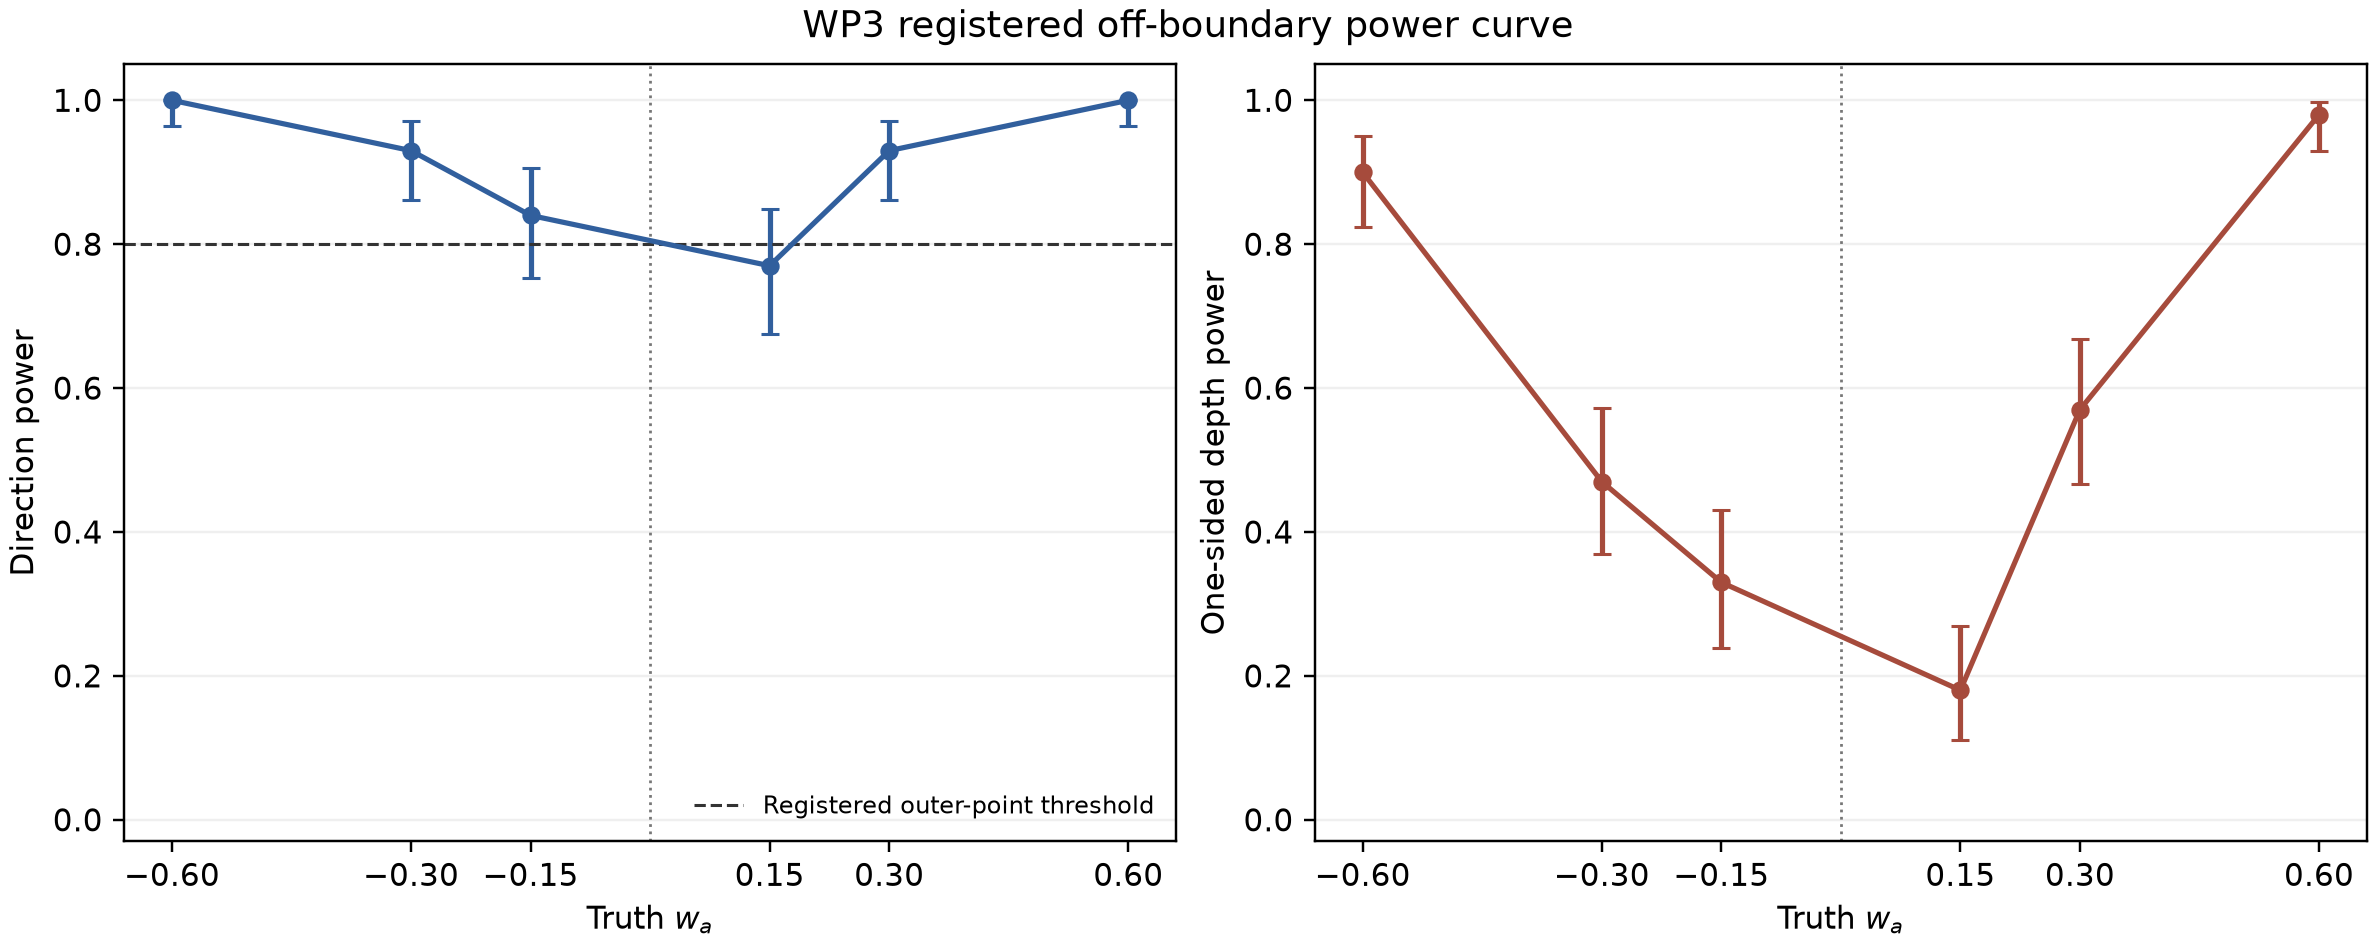
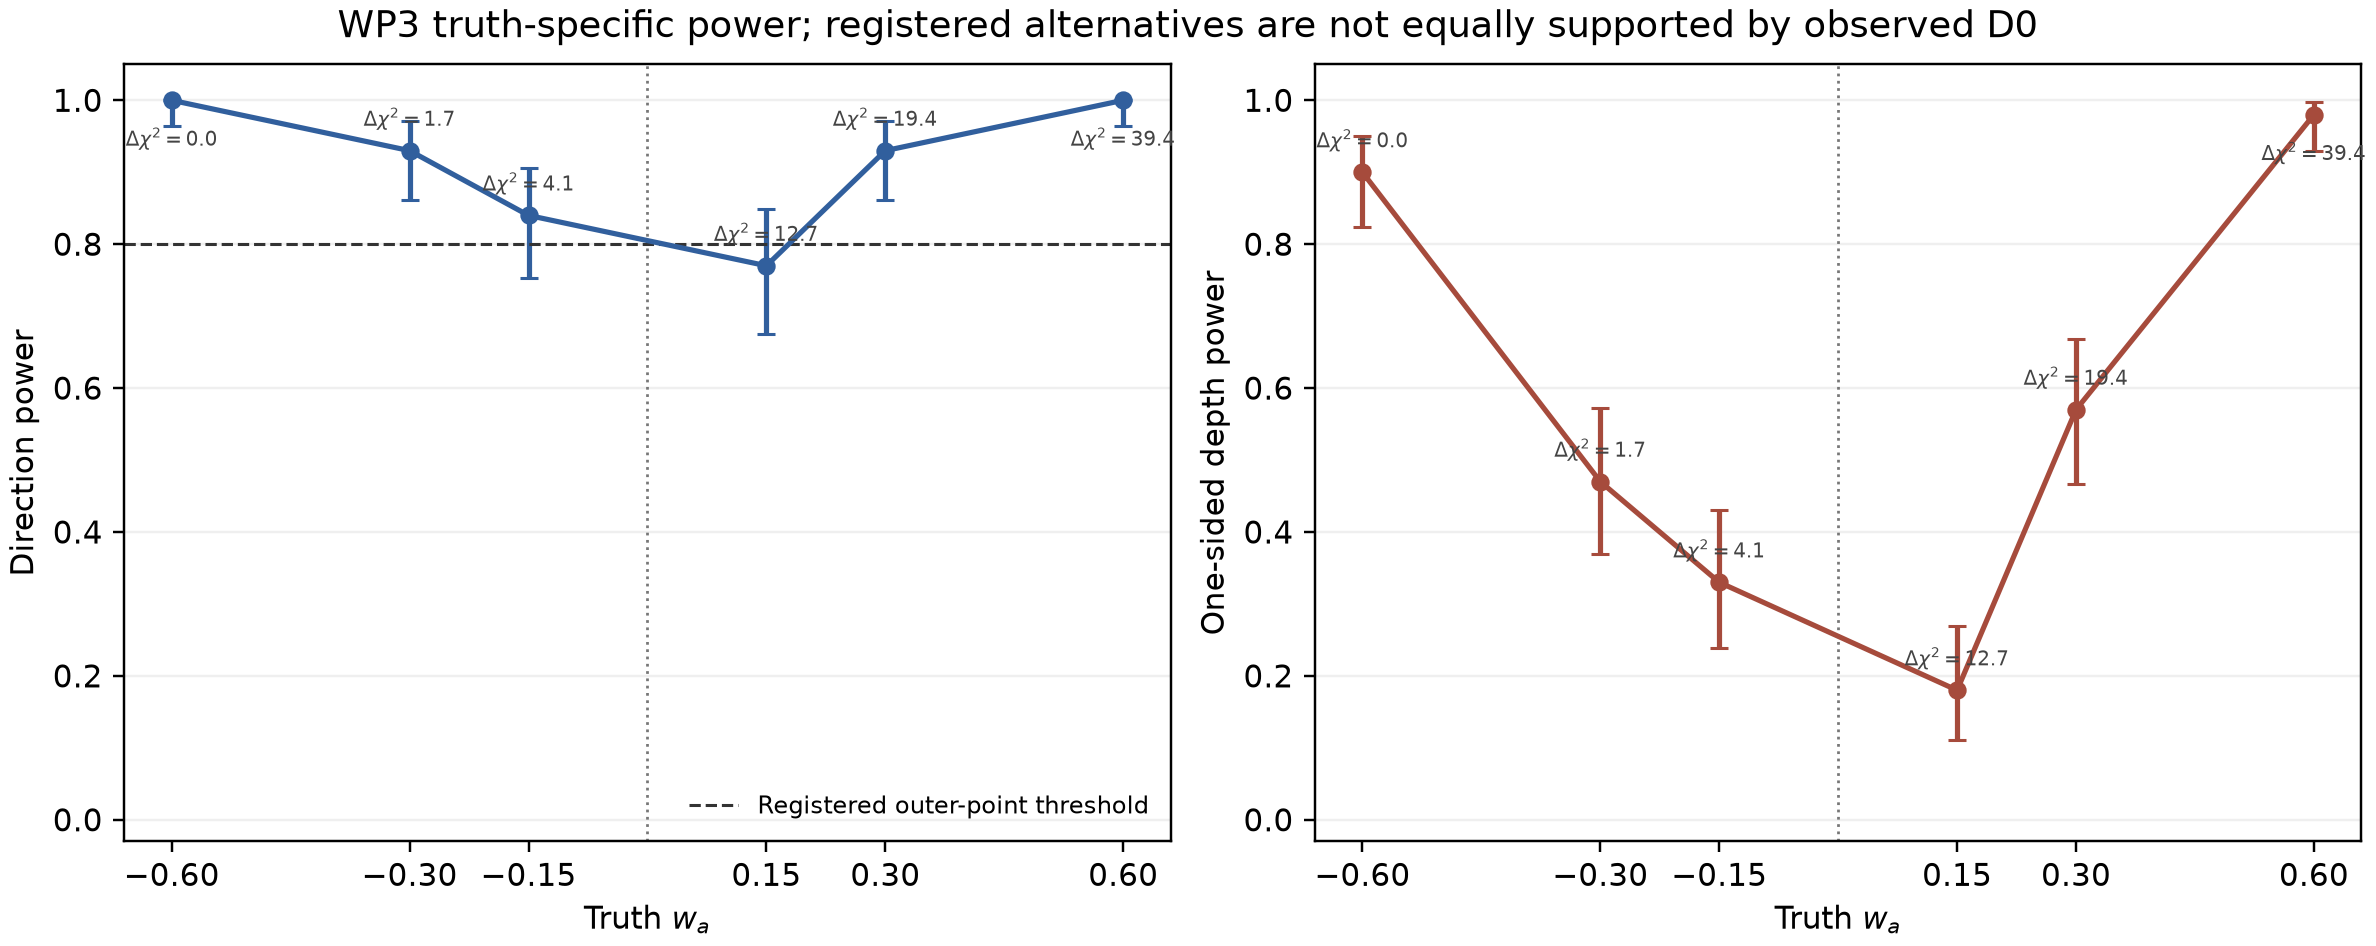
analysis: scope WP3 power claims and add profile fit

diff --git a/pipeline/report_wp3_power.py b/pipeline/report_wp3_power.py
@@ -21,9 +21,28 @@ def _interval_text(interval: list[float]) -> str:
     return f"[{interval[0]:.3f}, {interval[1]:.3f}]"
 
 
-def build_report(audit: dict) -> dict:
+def load_truth_profiles(root: Path = WP3_ROOT) -> dict[str, dict]:
+    profiles = {}
+    for truth_id in ORDER:
+        path = root / "truths" / truth_id / "truth.json"
+        truth = json.loads(path.read_text(encoding="utf-8"))
+        profiles[truth_id] = {
+            "profile_chi2": float(truth["fit"]["chi2"]),
+            "source": str(path.relative_to(ROOT)),
+        }
+    reference = min(row["profile_chi2"] for row in profiles.values())
+    for row in profiles.values():
+        row["delta_chi2_from_best_registered_truth"] = (
+            row["profile_chi2"] - reference
+        )
+    return profiles
+
+
+def build_report(audit: dict, truth_profiles: dict[str, dict] | None = None) -> dict:
     if audit.get("status") != "PASS":
         raise ValueError("WP3 completion audit has not passed")
+    if truth_profiles is None:
+        truth_profiles = load_truth_profiles()
     registered = audit["registered_power_endpoints"]
     points = registered["truth_points"]
     rows = []
@@ -33,6 +52,11 @@ def build_report(audit: dict) -> dict:
             {
                 "truth_id": truth_id,
                 "wa": point["wa"],
+                "profile_chi2": truth_profiles[truth_id]["profile_chi2"],
+                "delta_chi2_from_best_registered_truth": truth_profiles[
+                    truth_id
+                ]["delta_chi2_from_best_registered_truth"],
+                "truth_fit_source": truth_profiles[truth_id]["source"],
                 "correct_direction": point["correct_direction"],
                 "direction_power": point["direction_power"]["rate"],
                 "direction_power_exact95": point["direction_power"][
@@ -54,22 +78,26 @@ def build_report(audit: dict) -> dict:
             }
         )
     return {
-        "schema_version": "wp3-power-report-v1",
+        "schema_version": "wp3-power-report-v2",
         "source_audit": str(AUDIT.relative_to(ROOT)),
         "completion_status": audit["status"],
         "outer_direction_power_threshold": registered[
             "outer_direction_power_threshold"
         ],
         "outer_points_pass": registered["outer_points_pass"],
-        "classifier_demonstrably_powerful": registered[
-            "classifier_demonstrably_powerful"
-        ],
+        "positive_claim_scope": registered["positive_claim_scope"],
         "monotonicity_status": registered["monotonicity_diagnostic"]["status"],
+        "monotonicity_evidential_role": registered[
+            "monotonicity_diagnostic"
+        ]["evidential_role"],
         "rows": rows,
         "interpretation_guardrail": (
-            "WP3 establishes calibration power under the six declared local "
-            "alternatives. It does not by itself establish that the observed "
-            "universe occupies any one off-boundary truth."
+            "Power is truth-specific. The six declared alternatives have "
+            "different profile chi-square penalties against the observed D0 "
+            "data and are not a symmetric sequence of equally supported "
+            "effect sizes. WP3 establishes strong direction power under the "
+            "two registered outer-point alternatives; it does not establish "
+            "that the observed universe occupies any one off-boundary truth."
         ),
     }
 
@@ -78,6 +106,8 @@ def write_csv(report: dict, path: Path) -> None:
     fields = (
         "truth_id",
         "wa",
+        "profile_chi2",
+        "delta_chi2_from_best_registered_truth",
         "correct_direction",
         "direction_power",
         "direction_low95",
@@ -101,6 +131,10 @@ def write_csv(report: dict, path: Path) -> None:
                 {
                     "truth_id": row["truth_id"],
                     "wa": row["wa"],
+                    "profile_chi2": row["profile_chi2"],
+                    "delta_chi2_from_best_registered_truth": row[
+                        "delta_chi2_from_best_registered_truth"
+                    ],
                     "correct_direction": row["correct_direction"],
                     "direction_power": row["direction_power"],
                     "direction_low95": row["direction_power_exact95"][0],
@@ -123,16 +157,19 @@ def write_markdown(report: dict, path: Path) -> None:
     lines = [
         "# WP3 off-boundary power report",
         "",
-        "| Truth | wa | Correct side | Direction power (exact 95%) | Depth power (exact 95%) | False sign (exact 95%) | Correct mass median [central 68%] |",
-        "|---|---:|---|---:|---:|---:|---:|",
+        "| Truth | wa | profile chi2 | delta chi2 | Correct side | Direction power (exact 95%) | Depth power (exact 95%) | False sign (exact 95%) | Correct mass median [central 68%] |",
+        "|---|---:|---:|---:|---|---:|---:|---:|---:|",
     ]
     for row in report["rows"]:
         lines.append(
-            "| {truth_id} | {wa:+.2f} | {side} | {direction:.2f} {direction_ci} "
+            "| {truth_id} | {wa:+.2f} | {chi2:.2f} | {delta_chi2:.2f} "
+            "| {side} | {direction:.2f} {direction_ci} "
             "| {depth:.2f} {depth_ci} | {false:.2f} {false_ci} | "
             "{median:.3f} [{low68:.3f}, {high68:.3f}] |".format(
                 truth_id=row["truth_id"],
                 wa=row["wa"],
+                chi2=row["profile_chi2"],
+                delta_chi2=row["delta_chi2_from_best_registered_truth"],
                 side=row["correct_direction"],
                 direction=row["direction_power"],
                 direction_ci=_interval_text(row["direction_power_exact95"]),
@@ -150,9 +187,10 @@ def write_markdown(report: dict, path: Path) -> None:
         [
             "",
             f"- Outer-point direction-power gate (`>=0.80`): **{status}**.",
-            f"- Monotonicity diagnostic: **{report['monotonicity_status']}**.",
-            f"- Classifier demonstrably powerful under the registered rule: "
-            f"**{str(report['classifier_demonstrably_powerful']).upper()}**.",
+            f"- Positive claim: {report['positive_claim_scope']}.",
+            f"- Coarse monotonicity diagnostic: "
+            f"**{report['monotonicity_status']}**; "
+            f"{report['monotonicity_evidential_role']}.",
             "",
             report["interpretation_guardrail"],
             "",
@@ -195,6 +233,16 @@ def write_figure(report: dict, path: Path) -> None:
             capsize=3,
             color=color,
         )
+        for x_value, y_value, row in zip(x, y, rows):
+            ax.annotate(
+                rf"$\Delta\chi^2={row['delta_chi2_from_best_registered_truth']:.1f}$",
+                (x_value, y_value),
+                xytext=(0, -15 if y_value > 0.94 else 8),
+                textcoords="offset points",
+                ha="center",
+                fontsize=6.5,
+                color="#444444",
+            )
         ax.axvline(0, color="#777777", linewidth=0.9, linestyle=":")
         ax.set_xlabel(r"Truth $w_a$")
         ax.set_ylabel(label)
@@ -209,7 +257,10 @@ def write_figure(report: dict, path: Path) -> None:
         label="Registered outer-point threshold",
     )
     axes[0].legend(frameon=False, fontsize=8, loc="lower right")
-    fig.suptitle("WP3 registered off-boundary power curve")
+    fig.suptitle(
+        "WP3 truth-specific power; registered alternatives are not equally "
+        "supported by observed D0"
+    )
     fig.savefig(path, dpi=220)
     plt.close(fig)
 

diff --git a/pipeline/audit_wp3_completion.py b/pipeline/audit_wp3_completion.py
@@ -186,7 +186,7 @@ def _load_null(null_root: Path) -> tuple[np.ndarray, np.ndarray]:
 
 
 def _monotonicity(points: dict[str, dict]) -> dict:
-    """Flag only reversals whose exact 95% intervals are disjoint."""
+    """Coarsely flag only reversals whose exact 95% intervals are disjoint."""
 
     sides = {
         "negative_wa": ("wam015", "wam030", "wam060"),
@@ -215,11 +215,20 @@ def _monotonicity(points: dict[str, dict]) -> dict:
                 }
             )
         report[side] = comparisons
-    report["status"] = "PASS" if all_clear else "DIAGNOSTIC_TRIGGERED"
+    report["status"] = (
+        "NO_DISJOINT_INTERVAL_REVERSAL"
+        if all_clear
+        else "DISJOINT_INTERVAL_REVERSAL_DETECTED"
+    )
     report["definition"] = (
         "A reversal is beyond binomial uncertainty only when the outer point "
         "estimate is lower and its exact 95% upper bound is below the inner "
         "point's exact 95% lower bound."
+    )
+    report["evidential_role"] = (
+        "coarse descriptive safeguard only; overlapping exact intervals make "
+        "this insensitive to moderate non-monotonicity, so a clear status is "
+        "not separate evidence of classifier power"
     )
     return report
 
@@ -398,7 +407,7 @@ def audit_completion(
     )
     monotonicity = _monotonicity(truth_points)
     return {
-        "schema_version": "wp3-power-completion-audit-v1",
+        "schema_version": "wp3-power-completion-audit-v2",
         "created_at": datetime.now(timezone.utc).isoformat(),
         "status": "PASS",
         "campaign": {
@@ -439,7 +448,12 @@ def audit_completion(
             "truth_points": truth_points,
             "outer_direction_power_threshold": 0.80,
             "outer_points_pass": outer_pass,
-            "classifier_demonstrably_powerful": outer_pass,
+            "positive_claim_scope": (
+                "direction classifier is powerful under the two registered "
+                "outer-point alternatives (wam060 and wap060)"
+                if outer_pass
+                else "registered outer-point direction-power gate failed"
+            ),
             "monotonicity_diagnostic": monotonicity,
         },
         "operational_history": {

diff --git a/pipeline/test_report_wp3_power.py b/pipeline/test_report_wp3_power.py
@@ -33,10 +33,23 @@ def test_report_preserves_complete_registered_order():
             "truth_points": points,
             "outer_direction_power_threshold": 0.8,
             "outer_points_pass": True,
-            "classifier_demonstrably_powerful": True,
-            "monotonicity_diagnostic": {"status": "PASS"},
+            "positive_claim_scope": "outer alternatives only",
+            "monotonicity_diagnostic": {
+                "status": "NO_DISJOINT_INTERVAL_REVERSAL",
+                "evidential_role": "coarse diagnostic only",
+            },
         },
     }
-    report = build_report(audit)
+    profiles = {
+        truth_id: {
+            "profile_chi2": 100.0 + i,
+            "delta_chi2_from_best_registered_truth": float(i),
+            "source": f"truths/{truth_id}/truth.json",
+        }
+        for i, truth_id in enumerate(ORDER)
+    }
+    report = build_report(audit, profiles)
     assert [row["truth_id"] for row in report["rows"]] == list(ORDER)
     assert report["outer_points_pass"] is True
+    assert report["rows"][-1]["delta_chi2_from_best_registered_truth"] == 5.0
+    assert "outer alternatives only" in report["positive_claim_scope"]

diff --git a/pipeline/test_audit_wp3_completion.py b/pipeline/test_audit_wp3_completion.py
@@ -52,4 +52,5 @@ def test_monotonicity_only_triggers_for_disjoint_reversal():
         is False
     )
     assert report["positive_wa"][0]["reversal_beyond_binomial_uncertainty"] is True
-    assert report["status"] == "DIAGNOSTIC_TRIGGERED"
+    assert report["status"] == "DISJOINT_INTERVAL_REVERSAL_DETECTED"
+    assert "not separate evidence" in report["evidential_role"]

diff --git a/runs/prd_extension/wp3_power/POWER_REPORT.md b/runs/prd_extension/wp3_power/POWER_REPORT.md
@@ -1,16 +1,16 @@
 # WP3 off-boundary power report
 
-| Truth | wa | Correct side | Direction power (exact 95%) | Depth power (exact 95%) | False sign (exact 95%) | Correct mass median [central 68%] |
-|---|---:|---|---:|---:|---:|---:|
-| wam060 | -0.60 | heat_death_compatible | 1.00 [0.964, 1.000] | 0.90 [0.824, 0.951] | 0.00 [0.000, 0.036] | 0.997 [0.968, 1.000] |
-| wam030 | -0.30 | heat_death_compatible | 0.93 [0.861, 0.971] | 0.47 [0.369, 0.572] | 0.07 [0.029, 0.139] | 0.922 [0.590, 0.988] |
-| wam015 | -0.15 | heat_death_compatible | 0.84 [0.753, 0.906] | 0.33 [0.239, 0.431] | 0.16 [0.094, 0.247] | 0.873 [0.526, 0.978] |
-| wap015 | +0.15 | RIP | 0.77 [0.675, 0.848] | 0.18 [0.110, 0.269] | 0.23 [0.152, 0.325] | 0.729 [0.411, 0.933] |
-| wap030 | +0.30 | RIP | 0.93 [0.861, 0.971] | 0.57 [0.467, 0.669] | 0.07 [0.029, 0.139] | 0.948 [0.670, 0.996] |
-| wap060 | +0.60 | RIP | 1.00 [0.964, 1.000] | 0.98 [0.930, 0.998] | 0.00 [0.000, 0.036] | 0.999 [0.984, 1.000] |
+| Truth | wa | profile chi2 | delta chi2 | Correct side | Direction power (exact 95%) | Depth power (exact 95%) | False sign (exact 95%) | Correct mass median [central 68%] |
+|---|---:|---:|---:|---|---:|---:|---:|---:|
+| wam060 | -0.60 | 1489.46 | 0.00 | heat_death_compatible | 1.00 [0.964, 1.000] | 0.90 [0.824, 0.951] | 0.00 [0.000, 0.036] | 0.997 [0.968, 1.000] |
+| wam030 | -0.30 | 1491.14 | 1.67 | heat_death_compatible | 0.93 [0.861, 0.971] | 0.47 [0.369, 0.572] | 0.07 [0.029, 0.139] | 0.922 [0.590, 0.988] |
+| wam015 | -0.15 | 1493.52 | 4.05 | heat_death_compatible | 0.84 [0.753, 0.906] | 0.33 [0.239, 0.431] | 0.16 [0.094, 0.247] | 0.873 [0.526, 0.978] |
+| wap015 | +0.15 | 1502.18 | 12.71 | RIP | 0.77 [0.675, 0.848] | 0.18 [0.110, 0.269] | 0.23 [0.152, 0.325] | 0.729 [0.411, 0.933] |
+| wap030 | +0.30 | 1508.91 | 19.45 | RIP | 0.93 [0.861, 0.971] | 0.57 [0.467, 0.669] | 0.07 [0.029, 0.139] | 0.948 [0.670, 0.996] |
+| wap060 | +0.60 | 1528.83 | 39.37 | RIP | 1.00 [0.964, 1.000] | 0.98 [0.930, 0.998] | 0.00 [0.000, 0.036] | 0.999 [0.984, 1.000] |
 
 - Outer-point direction-power gate (`>=0.80`): **PASS**.
-- Monotonicity diagnostic: **PASS**.
-- Classifier demonstrably powerful under the registered rule: **TRUE**.
+- Positive claim: direction classifier is powerful under the two registered outer-point alternatives (wam060 and wap060).
+- Coarse monotonicity diagnostic: **NO_DISJOINT_INTERVAL_REVERSAL**; coarse descriptive safeguard only; overlapping exact intervals make this insensitive to moderate non-monotonicity, so a clear status is not separate evidence of classifier power.
 
-WP3 establishes calibration power under the six declared local alternatives. It does not by itself establish that the observed universe occupies any one off-boundary truth.
+Power is truth-specific. The six declared alternatives have different profile chi-square penalties against the observed D0 data and are not a symmetric sequence of equally supported effect sizes. WP3 establishes strong direction power under the two registered outer-point alternatives; it does not establish that the observed universe occupies any one off-boundary truth.
